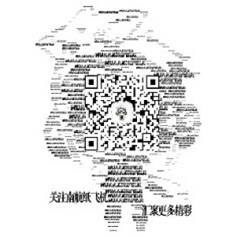
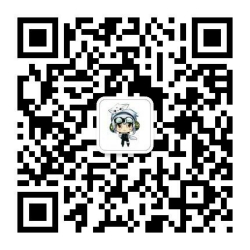
修改纸飞机宣传，学生组织宣传

diff --git a/markdown/freshman.md b/markdown/freshman.md
@@ -12,7 +12,7 @@
 
 
 
-## *走近南航* 
+## *走近南航*
 
 明廓翠屏，拥南航，博大精深。
 
@@ -117,7 +117,7 @@
 
 ###必备证件
 
-1.身份证及复印件、团员证及转团关系的资料等必备物品：学校邮寄的录取通知书里资料都已详细说明，一定仔细阅读，不要落下什么哦。 
+1.身份证及复印件、团员证及转团关系的资料等必备物品：学校邮寄的录取通知书里资料都已详细说明，一定仔细阅读，不要落下什么哦。
 
 2.录取通知书原件与复印件：开学录取通知书是需要上交的哦，复印件开学有可能会用到~
 
@@ -171,7 +171,7 @@
 
 2.防晒必备 夏季防晒是头等大事，所以准备适合自己肤质的防晒品是非常重要。如果不准备，军训过后皮肤会惨不忍睹的……
 
-3.感冒必备 天气多变，加上刚来到学校可能水土不服，同学们的身体很容易出现小问题。感冒药、退烧片等请准备好，但是一旦身体不舒服还是趁早去校医院看看更放心！ 
+3.感冒必备 天气多变，加上刚来到学校可能水土不服，同学们的身体很容易出现小问题。感冒药、退烧片等请准备好，但是一旦身体不舒服还是趁早去校医院看看更放心！
 
 另外军训时喊口号会比较累嗓子，所以要准备一些润喉片之类的，嗓子千万要保护好哦。
 
@@ -207,7 +207,7 @@
 ###南京南站
 
 最便捷的方法是直接在南京南站乘坐地铁机场线,
-只需经过一站，在翠屏山站下车即可，出了地铁站就是南航了哦~ 
+只需经过一站，在翠屏山站下车即可，出了地铁站就是南航了哦~
 
 另一种也比较方便的途径是直接在南京南站乘坐119路公交,经过12站在南航北门站下车即可。
 
@@ -234,7 +234,7 @@
 掉皮掉肉不掉队
 
 
-## *Are You Ready?* 
+## *Are You Ready?*
 
  知己知彼百战不殆，给力装备让苦歇菜
 
@@ -372,7 +372,7 @@
 咱也不能罢学
 
 
-## *南航的一天* 
+## *南航的一天*
 
 （正常版&学霸版&考前版）
 
@@ -393,7 +393,7 @@
 
 19:00——21:00 晚自习（咳咳，出去玩了，但宿舍绝对不能呆啊Σ( ° △ °|||)︴）
 
-21:00——      人有多大胆，玩得有多晚(￣ε(#￣)☆╰╮o(￣皿￣///) 
+21:00——      人有多大胆，玩得有多晚(￣ε(#￣)☆╰╮o(￣皿￣///)
 
 ###学霸版
 
@@ -438,7 +438,7 @@
 
 入学考试一般会安排在军训的前几天晚上进行，分为选拔考试和水平测试，共有三个科目，英语、数学还有物理。对大多数同学来说英语考试是最重要的，因为它决定了你英语学习的起点。当然如果同学们想考进培优班，整体实力也必须非常的强。
 
-    
+
 ###培优班选拔
 
 综合全部入学考试成绩，排名靠前的同学有机会进入长空学院的各类培优班学习。培优班选拔主要以参加选拔测试的同学为主，该类同学主要是各省录取的学生中高考分数较高者、各类保送生、入学时签订具有本硕（博）连读培养（考试）资格的学生等的签约录取考生及保送生。参加水平测试的同学成绩优异者也有机会进入各类培优班，培优班的最终名单会由入学考试的综合成绩确定。
@@ -472,7 +472,7 @@
 
 ###试卷和旧书
 
- 
+
 
 选课的同时学校也会统一征订教材，教材不一定要买学校的新书，实际上从大一下学期开始有很多人会去学校外面买以前学生用过的旧书或者向学长学姐借书（前提是教材没有发生变化）。 购买旧书购买可以去纸飞机电子商城——[南航MALL](http://my.nuaa.edu.cn/mall/)都是南航的学生嘛，学长学姐都是很热情的。 也可以去后街的旧书店老杨书店、南航旧书店购买。
 
@@ -919,7 +919,7 @@
 
 **时新眼镜** 众所周知，丹阳特产眼镜，作为一家丹阳直营店，这里的眼镜可谓物美价廉。这里还可以报名驾照，价钱3000多，相当便宜。考到的驾照只需10元即可转到自己的户口所在地。
 
-**果品店** 这家果品店的水果种类丰富，时令水果都能在这里买到，小编认为和教超的水果店不分上下。比起后街的水果店价格稍微高一点，不过校内店租高，可以理解。 
+**果品店** 这家果品店的水果种类丰富，时令水果都能在这里买到，小编认为和教超的水果店不分上下。比起后街的水果店价格稍微高一点，不过校内店租高，可以理解。
 
 **水晶之恋蛋糕房** 这是前年新开的店，小编去过几次，感觉里面的面包实在便宜实惠。如果没有时间吃饭的话，在这里买上两个面包也是不错的选择。个人推荐这里的蛋挞，相当不错，仅10元/盒。
 
@@ -963,7 +963,7 @@
 
 ##不离不弃的卡卡们
 
-###校园卡 
+###校园卡
 当你入校登记过以后，你会收到自己的校园卡，别看它毫不起眼，其实它非常重要哦。现在我们来介绍一下这张小小校园卡的功能。
 
 1，**刷卡** 校园卡功能之一，就是可以在学校内各食堂、超市、商店等处用于吃饭、购物以及乘坐校车时的刷卡付款。所以，在校园里身上可以放心的不带现金，非常方便哦。
@@ -989,7 +989,7 @@
 
 集社保卡、银行卡、公交卡于一身的市民卡，你能想到的功能它都有。这个应该是学院统一办理，然后在大一下期分发。
 
-###交通银行卡 
+###交通银行卡
 
 缴费都是通过这张卡完成的。会和校园卡绑定，充值以及取钱在教超旁边有交行的自助营业厅。这张卡会随通知书寄出，且附有密码，大家记得好好保存哟。
 
@@ -1093,6 +1093,14 @@
 
 南京航空航天大学校团委宣传部是由共青团南京航空航天大学委员会直接领导的学生组织，也是拥有多种宣传渠道的宣传平台。团宣下设南航青年报刊、摄影采编中心、公共事务中心三大机构。本着“贴近生活，贴近校园，贴近青年”的核心理念；“用心服务，用心创造”的工作态度，校团委宣传部正努力为校园文化建设与校园传媒事业发挥着越来越重要的作用。
 
+###团委实践部
+
+是校团委直属部门之一，也是南航十一大校级组织中最为年轻的一位成员，为南航学子的社会实践活动提供了广阔的机遇与平台。部门现设部长一名，副部长三名。同时下设项目中心、外联中心、媒体中心，以及业务中心。
+
+设立以来，实践部秉承“实践出真知”的思想，积极为同学们的社会实践服务提供服务。从“行知南航”微信平台上最新鲜的实践咨询，到《行知百说》和南航网红“行知哥”；从暑期社会实践出征仪式，再到“爱国情·青年行”调研类专项项目发布会，我们始终走在实践的最前沿。
+
+“读万卷书，行万里路”。让我们带上第一课堂上学到的知识，走进实践的第二课堂。在实践中提升自己，体验社会。加入我们，和实践部一起，进步，成长。
+
 ###校团委青年志愿者工作部
 
 校团委青年志愿者工作部成立于2006年，是在共青团南京航空航天大学委员会的指导下，组织和领导全校青年学生积极参加志愿服务工作与社会实践，发展我校红十字会事业的学生组织，旨在培养大学生的社会责任感，增强大学生的社会服务意识，努力提高大学生的综合素质，推动我校青年工作活动的健康发展。
@@ -1113,6 +1121,12 @@
 
 学生科协主要负责承办南航全校科技活动，各种科技资讯的传播，各种科技常识的普及。科协虽然历史悠久，但却是充满青春活力激情的一个学生组织！
 
+###中学教育拓展中心（原名科创学子大使团）
+
+创建于2011年3月，是隶属于学生处招生办的学生组织。
+中心以架起中学同大学的桥梁为宗旨，在大学校园内组织启航行动——南航学子中学行活动，疏影航活动，与中学建立良好的交流与沟通通道。同时不定期出访中学，带去南航的问候。
+
+“智周万物，道济天下”——这不仅仅是南京航空航天大学的校训，同样也是中学教育拓展中心孜孜不倦追求的信仰。“智周万物”是中拓每位成员不懈奋斗的追求——他们在交流领域中不断精进；“道济天下”则是每位成员认真践行的准则——他们会把南航精神带入高中校园。
 
 ###南航科技中心
 
@@ -1123,10 +1137,6 @@
 ###研究生会
 
 南京航空航天大学研究生会是在学校党委领导下，校研究生院、校团委具体指导下全体研究生的“自我教育、自我管理、自我服务”群众组织，是联系校院系各级部门与研究生之间的桥梁。南京航空航天大学研究生会在明故宫与江宁校区分别设有部门，两校区协会分工，共同开展工作。
-
-###中学教育拓展中心
-
-南京航空航天大学中学教育拓展中心创建于2011年，拓展中心汇集了全校各专业在科技创新领域有突出成就的科创精英们，旨在把科创的理念带到中学校园，让更多的中学生感受到科创的精髓与奥妙。
 
 ## *缤纷社团*
 
@@ -1254,7 +1264,7 @@
 
 最后呢，嗯。南航这么大，你得多看看！才能，才能找到那个Ta啊。
 
-## *校园周边* 
+## *校园周边*
 
 **吃喝玩乐，一应俱全**
 
@@ -1381,7 +1391,7 @@ We Want To Fly！
 ![cover](img/8.6.jpg)
 
 
-## *南航纸飞机* 
+## *南航纸飞机*
 
 *南京航空航天大学学生门户网站，分享快乐激发灵感的大学生网络社区*
 
@@ -1432,11 +1442,8 @@ We Want To Fly！
 
  纸飞机秘书部作为部门与部门、外界之间沟通的桥梁，秉着“服务全校老师和同学”的宗旨，积极参加并组织各项活动，是纸飞机的一股中坚力量。这是一个十分有爱的部门，有可爱大方的部长和副部们，我们不仅是一个提高你自身能力的平台，更是一个良好的交际圈，部门气氛和谐融洽，好啦，开始说正事 我们的职能如下：负责整个纸飞机其他部门的例会记录工作（包括部长例会和部门例会等其他会议）。 负责纸飞机组织和参与的所有活动会的考勤工作。负责对各个部门的月末考核和学期考核。积极协助其他部门开展好工作。在工作过程中我们可以互帮互助，共同进步的哦，欢迎小鲜肉们的加入， 我们等着你们哦！
 
-**对外联系部**
-
- 纸飞机的小金库，为团队承办纸飞机各类线下活动，为各活动和日常运作拉取赞助。这里是能提高语言表达能力的地方，这里是能接受系统培训的地方。
-
 **活动企划部**
+
 还记得刚进入大学时那一场由新生主办的迎新晚会吗？还有那一次樱花广场的军训摄影大赛？这些都是我们纸飞机南航青年网络社区活动企划部主办的活动哦！当然，我们还不仅仅办了这些活动，时光慢递，蛋蛋晚会，生日会等等，都是我们的招牌活动。你也有一颗想办活动的心吗？加入我们部门吧，让我们一起玩去感受舞台背后的劳动与甘甜吧！
 
 **电脑服务部**
@@ -1456,9 +1463,11 @@ We Want To Fly！
 *邮政编码*：211100
 
 *微信*：nuaazfj/南航纸飞机
+![image](img/weixin.jpg)
+飞机娘欢迎和你一同在南航成长
 
 *网址*：[my.nuaa.edu.cn](http://my.nuaa.edu.cn/)
-![image](img/weixin.jpg)
+
 
 
 ##编辑团队
@@ -1471,7 +1480,7 @@ ID = 多啦A帅
 
 ID = 不给吃的小夜宵
 
-ID = 刘璇Vanessa 
+ID = 刘璇Vanessa
 
 ID = Dyrad
 
